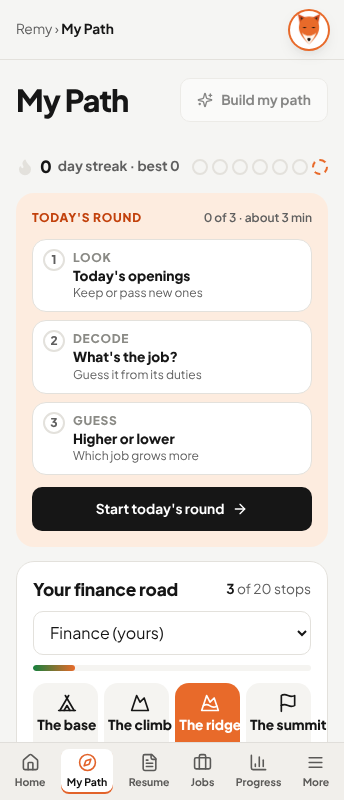
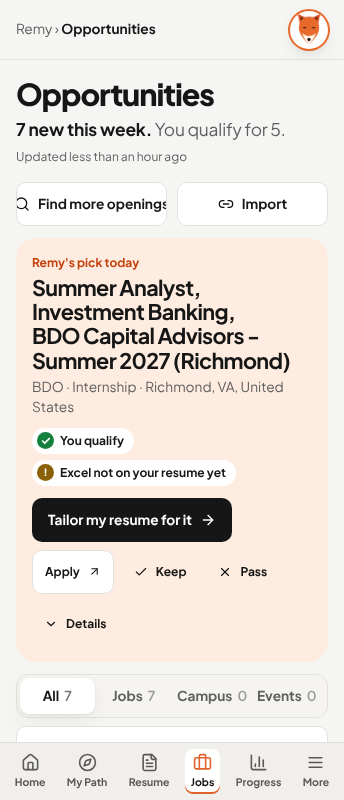
Owner Opportunities: Remy's line, Remy's pick, list with a search rail
Tabs redesign (Dilan approved the mockup Nov 22). Owners only:
- Remy's line under the title from real counts (new this week, you qualify
  for N, the soonest deadline).
- Remy's pick: the best unsaved opening as a peach card with why it fits as
  checks, Tailor, Apply, Keep/Pass and Details. It leaves the list below.
- Counts on the category filters, company initials on every card.
- A rail beside the list: Saved/Tailored/Applied/Interview tiles and the
  deadlines closing in the next 30 days. The season band closes the page.
Every existing option and filter stays. orgInitials moves to lib/jobs and
keeps short acronyms whole (BDO).

Claude-Session: https://claude.ai/code/session_0147vw1KgHCtFBEXCgx9RGLo

diff --git a/client/src/pages/Opportunities.tsx b/client/src/pages/Opportunities.tsx
@@ -1,12 +1,13 @@
 import { useEffect, useState, Fragment } from "react";
 import { dreamWithoutOpenings } from "@shared/org";
-import { ArrowDown, ArrowUp, ArrowUpRight, Bookmark, BookmarkCheck, CalendarPlus, Check, X, ChevronDown, ChevronUp, Link2, MapPin, RefreshCw, Search, Sparkles, ThumbsDown, ThumbsUp, Trash2 } from "lucide-react";
+import { ArrowDown, ArrowRight, ArrowUp, ArrowUpRight, Bookmark, BookmarkCheck, CalendarPlus, Check, X, ChevronDown, ChevronUp, Link2, MapPin, RefreshCw, Search, Sparkles, ThumbsDown, ThumbsUp, Trash2 } from "lucide-react";
 import { openingRanker, reasonLine } from "@shared/order";
 import type { Job, JobCheck, JobFit, JobInterestReason, JobRanking, Workspace } from "@shared/types";
 import { api, daysUntil, fmtDate, rid, useDraft, useOwnerView, useStore } from "../lib/store";
 import { ApplyLink } from "../components/ApplyLink";
 import { go } from "../lib/router";
-import { kindLabel, reloadJobs, sameOrg, useJobs } from "../lib/jobs";
+import { kindLabel, orgInitials, reloadJobs, sameOrg, useJobs } from "../lib/jobs";
+import { SeasonCard } from "../components/SeasonCard";
 import { shortTitle } from "@shared/org";
 import { screeningFor } from "@shared/screening";
 import { postingSkills, skillsIn } from "@shared/requirements";
@@ -19,6 +20,7 @@ const matchKind = (j: Job, k: Kind) => k === "all" || (k === "event" ? j.kind ==
 export default function Opportunities({ query }: { query: URLSearchParams }) {
   const { ws, setWs, run, toast } = useStore();
   const w = ws!;
+  const owner = useOwnerView(); // tabs redesign (Nov 22), owners first
   const { jobs, fits, interest, interestEnabled, needsProfile, refreshing, fieldEmployers } = useJobs();
   // Remy's employer list is mostly business, tech and engineering; for other fields it says so instead of blaming filters.
   // An undecided student has no field, so "few employers hire in your field" would be untrue for them.
@@ -83,6 +85,10 @@ export default function Opportunities({ query }: { query: URLSearchParams }) {
     // The student's own places first, then "Worth relocating for" (their relocation answer), then other places (only
     // when they show all locations); pinned and ranked within each group, so a group never splits (skeptic review).
     .sort(compare(pinned));
+  // Owners: Remy's pick heads the page (the best unsaved job on the list as ranked), and is left out of the list below.
+  const visible = (jobs || []).filter((j) => !w.hiddenJobIds.includes(j.id) && !fits[j.id]?.excluded);
+  const pick = owner && !q && !focus && !role ? list.find((j) => j.kind !== "event" && !w.savedJobIds.includes(j.id)) : undefined;
+  const rest = pick ? list.filter((j) => j !== pick) : list;
   return (
     <>
       {needsProfile && <div className="notice" data-testid="needs-profile">{needsProfile}</div>}
@@ -92,7 +98,7 @@ export default function Opportunities({ query }: { query: URLSearchParams }) {
         <div>
           <span className="eyebrow">Opportunities</span>
           <h1><span className="title-slogan">Openings worth your time.</span><span className="title-plain">Opportunities</span></h1>
-          <p className="hide-phone">Ranked for you: openings you're eligible for and that match your background come first.</p>
+          {owner ? <OppLine visible={visible} fits={fits} /> : <p className="hide-phone">Ranked for you: openings you're eligible for and that match your background come first.</p>}
           {(() => {
             // A quiet status line instead of a button to press: when Remy last looked, and what's new this week.
             const at = w.lastSearch?.at || w.openingsCheckedAt;
@@ -102,7 +108,7 @@ export default function Opportunities({ query }: { query: URLSearchParams }) {
             const ago = h < 1 ? "less than an hour ago" : h < 24 ? `${h}h ago` : `${d} day${d === 1 ? "" : "s"} ago`;
             const week = new Date(Date.now() - 7 * 864e5).toISOString();
             const fresh = (jobs || []).filter((j) => (j.foundAt || "") > week && !fits[j.id]?.excluded && fits[j.id]?.regionMatch !== false && !w.hiddenJobIds.includes(j.id)).length;
-            return <p className="xs muted" data-testid="openings-status">Updated {ago}{fresh ? ` · ${fresh} new this week` : ""}<span className="opp-status-extra"> · Remy checks again by itself</span></p>;
+            return <p className="xs muted" data-testid="openings-status">Updated {ago}{fresh && !owner ? ` · ${fresh} new this week` : ""}<span className="opp-status-extra"> · Remy checks again by itself</span></p>;
           })()}
         </div>
         <div className="row opp-actions">
@@ -112,10 +118,11 @@ export default function Opportunities({ query }: { query: URLSearchParams }) {
       </div>
       {finding && <div className="notice small fade-up"><Remy size={28} mood="think" /><div className="stack-sm"><span>Remy is reading live job boards from employers that fit {w.profile.targetRoles || "your interests"}{w.profile.regions ? ` in ${w.profile.regions}` : ""}.</span><WorkingSteps steps={["Picking employers that fit you", "Reading their career sites", "Keeping internships and entry-level roles", "Ranking by how well they fit"]} every={3500} /></div></div>}
       {showImport && <ImportPanel onDone={() => setShowImport(false)} />}
+      {pick && <OwnerPick j={pick} fit={fits[pick.id]} canRate={interestEnabled} />}
       <div className="row-between opp-filters">
         <div className="seg" role="group" aria-label="Category">
           {([["all", "All", "All"], ["jobs", "Jobs & internships", "Jobs"], ["campus", "Campus jobs", "Campus"], ["event", "Events", "Events"]] as [Kind, string, string][]).map(([k, l, short]) => (
-            <button key={k} aria-pressed={kind === k} onClick={() => setKind(k)} aria-label={l} data-testid={`filter-${k}`}><span className="opp-kind-long">{l}</span><span className="opp-kind-short" aria-hidden>{short}</span></button>
+            <button key={k} aria-pressed={kind === k} onClick={() => setKind(k)} aria-label={l} data-testid={`filter-${k}`}><span className="opp-kind-long">{l}</span><span className="opp-kind-short" aria-hidden>{short}</span>{owner && <em className="op-n">{visible.filter((j) => matchKind(j, k)).length}</em>}</button>
           ))}
         </div>
         <div className="row">
@@ -144,13 +151,13 @@ export default function Opportunities({ query }: { query: URLSearchParams }) {
           </div>
         </div>
       )}
-      {!jobs ? <div className="stack">{[1, 2, 3].map((i) => <div key={i} className="skeleton" style={{ height: 120 }} />)}</div> : list.length ? (
+      {(() => { const listBlock = (!jobs ? <div className="stack">{[1, 2, 3].map((i) => <div key={i} className="skeleton" style={{ height: 120 }} />)}</div> : list.length ? (
         (() => {
           // A link to one opening (?id=) shows the list down to it.
-          const count = role ? list.length : Math.max(shown, list.findIndex((j) => j.id === focus) + 1); // from My Path: all of them
+          const count = role ? rest.length : Math.max(shown, rest.findIndex((j) => j.id === focus) + 1); // from My Path: all of them
           return (
             <div className="stack">
-              {list.slice(0, count).map((j, i, shownList) => (
+              {rest.slice(0, count).map((j, i, shownList) => (
                 <Fragment key={j.id}>
                   {/* Openings outside the student's places come after theirs, under a line saying why (their relocation answer). */}
                   {group(j) > 0 && (i === 0 || group(shownList[i - 1]) !== group(j)) && (
@@ -159,19 +166,19 @@ export default function Opportunities({ query }: { query: URLSearchParams }) {
                   <JobCard j={j} fit={fits[j.id]} moved={interest[j.id]} canRate={interestEnabled} defaultOpen={focus === j.id} />
                 </Fragment>
               ))}
-              {list.length > count && (
+              {rest.length > count && (
                 <button className="btn btn-secondary" style={{ alignSelf: "center" }} onClick={() => {
                   setShown(count + 10);
                   // Keyboard users land on the first new card, not past it.
                   setTimeout(() => { const el = document.querySelectorAll<HTMLElement>(".job-card")[count]; if (el) { el.setAttribute("tabindex", "-1"); el.focus(); } }, 50);
                 }} data-testid="button-show-more-jobs">
-                  Show {Math.min(10, list.length - count)} more <span className="muted">({list.length - count} left)</span>
+                  Show {Math.min(10, rest.length - count)} more <span className="muted">({rest.length - count} left)</span>
                 </button>
               )}
             </div>
           );
         })()
-      ) : (
+      ) : rest.length === 0 && pick ? null : (
         <div className="card">
           <Empty
             title={kind === "campus" ? "No campus jobs added yet" : jobs.length ? "Nothing matches" : "No openings yet"}
@@ -182,8 +189,83 @@ export default function Opportunities({ query }: { query: URLSearchParams }) {
             action={kind !== "campus" && !jobs.length && !fewInField ? <button className="btn btn-primary" onClick={discover} disabled={finding}>{finding ? <Spinner /> : <Search size={16} />} {finding ? "Remy is checking job boards…" : "Find openings"}</button> : <button className="btn btn-secondary" onClick={() => setShowImport(true)}>Import a posting</button>}
           />
         </div>
-      )}
+      ));
+        // Owners: the list beside a rail with their search counts and what closes soon; the season band closes the page.
+        return owner ? <><div className="op-cols"><div className="stack">{listBlock}</div><OppRail jobs={jobs || []} /></div><SeasonCard w={w} /></> : listBlock;
+      })()}
     </>
+  );
+}
+
+/** Owners: Remy's line under the title, from real counts (never a made-up number). */
+function OppLine({ visible, fits }: { visible: Job[]; fits: Record<string, JobFit> }) {
+  const week = new Date(Date.now() - 7 * 864e5).toISOString();
+  const fresh = visible.filter((j) => (j.foundAt || "") > week).length;
+  const qualify = visible.filter((j) => fits[j.id]?.checked && fits[j.id]?.eligibility !== "unlikely" && !fits[j.id]?.closed).length;
+  const soon = visible.map((j) => ({ j, d: daysUntil(j.deadline) })).filter((x) => x.d !== null && x.d >= 0 && x.d <= 14).sort((a, b) => a.d! - b.d!)[0];
+  if (!visible.length) return <p className="op-say">Remy is looking for openings that fit you.</p>;
+  return (
+    <p className="op-say" data-testid="opp-line">
+      <b>{fresh ? `${fresh} new this week.` : `${visible.length} opening${visible.length === 1 ? "" : "s"} ranked for you.`}</b>
+      {qualify ? ` You qualify for ${qualify}.` : ""}
+      {soon ? ` ${soon.j.company} closes ${soon.d === 0 ? "today" : soon.d === 1 ? "tomorrow" : `in ${soon.d} days`}.` : ""}
+    </p>
+  );
+}
+
+/** Owners: the one opening Remy would look at first, with why it fits as checks and every action the card has. */
+function OwnerPick({ j, fit, canRate }: { j: Job; fit?: JobFit; canRate: boolean }) {
+  const { ws, save } = useStore();
+  const w = ws!;
+  const saved = w.savedJobIds.includes(j.id), hidden = w.hiddenJobIds.includes(j.id);
+  const d = daysUntil(j.deadline);
+  return (
+    <section className="op-pick" data-testid="opp-pick">
+      <div className="op-pick-main">
+        <span className="op-kick">Remy's pick today</span>
+        <h2 title={j.title}>{shortTitle(j.title, j.company)}</h2>
+        <span className="small muted">{j.company} · {kindLabel[j.kind]}{j.location ? ` · ${j.location}` : ""}</span>
+        <div className="op-fits">
+          {fit?.checked && fit.eligibility !== "unlikely" && <span className="op-fit"><i><Check size={10} strokeWidth={4} /></i>You qualify</span>}
+          {(fit?.matched || []).slice(0, 3).map((k) => <span key={k} className="op-fit"><i><Check size={10} strokeWidth={4} /></i>{k} on your resume</span>)}
+          {d !== null && d >= 0 && d <= 14 && <span className="op-fit warn"><i>!</i>Due {fmtDate(j.deadline)}</span>}
+          {!fit?.matched?.length && fit?.gaps?.[0] && fit.gaps[0].length < 30 && <span className="op-fit warn"><i>!</i>{fit.gaps[0]} not on your resume yet</span>}
+        </div>
+        <div className="row op-pick-acts">
+          <button className="btn btn-primary" onClick={() => go(`/resume?tab=tailor&job=${j.id}&go=1`)} data-testid="button-pick-tailor">Tailor my resume for it <ArrowRight size={16} /></button>
+          <ApplyLink j={j} />
+          {canRate ? <KeepPass j={j} saved={saved} hidden={hidden} /> : <button className="btn btn-ghost btn-sm" onClick={() => save("savedJobIds", saved ? w.savedJobIds.filter((x) => x !== j.id) : [...w.savedJobIds, j.id])} data-testid="button-pick-save">{saved ? <BookmarkCheck size={14} /> : <Bookmark size={14} />} {saved ? "Saved" : "Save"}</button>}
+          <button className="btn btn-ghost btn-sm" onClick={() => go(`/opportunities?kind=all&id=${j.id}`)} data-testid="button-pick-details"><ChevronDown size={14} /> Details</button>
+        </div>
+      </div>
+      <span className="op-pick-mono" aria-hidden="true">{orgInitials(j.company)}</span>
+    </section>
+  );
+}
+
+/** Owners: where their search stands and the deadlines coming up, beside the list. */
+function OppRail({ jobs }: { jobs: Job[] }) {
+  const { ws } = useStore();
+  const w = ws!;
+  const sent = w.tracker.filter((t) => !["Saved", "Withdrawn"].includes(t.status));
+  const tiles: [string, number, string][] = [["Saved", w.savedJobIds.length, "a"], ["Tailored", w.applications.length, "b"], ["Applied", sent.length, "c"], ["Interview", sent.filter((t) => t.status === "Interview" || t.status === "Offer").length, "d"]];
+  const soon = jobs.filter((j) => !w.hiddenJobIds.includes(j.id)).map((j) => ({ j, d: daysUntil(j.deadline) }))
+    .filter((x) => x.d !== null && x.d >= 0 && x.d <= 30)
+    .sort((a, b) => Number(w.savedJobIds.includes(b.j.id)) - Number(w.savedJobIds.includes(a.j.id)) || a.d! - b.d!).slice(0, 3);
+  return (
+    <aside className="op-rail" data-testid="opp-rail">
+      <div className="op-card">
+        <div className="op-ch"><h3>Your search</h3><button className="op-link" onClick={() => go("/progress")} data-testid="button-rail-progress">Progress →</button></div>
+        <div className="op-tiles">{tiles.map(([l, n, c]) => <div key={l} className={"op-tile " + c}><b>{n}</b><span>{l}</span></div>)}</div>
+      </div>
+      <div className="op-card">
+        <div className="op-ch"><h3>Closing soon</h3><button className="op-link" onClick={() => go("/calendar")} data-testid="button-rail-calendar">Calendar →</button></div>
+        {soon.length ? <ul className="op-dl">{soon.map(({ j }) => (
+          <li key={j.id}><span className="op-date"><small>{new Date(j.deadline.slice(0, 10) + "T12:00").toLocaleDateString("en-US", { month: "short" })}</small><b>{new Date(j.deadline.slice(0, 10) + "T12:00").getDate()}</b></span>
+            <button onClick={() => go(`/opportunities?kind=all&id=${j.id}`)}><strong>{shortTitle(j.title, j.company)}</strong><span>{j.company}{w.savedJobIds.includes(j.id) ? " · saved" : ""}</span></button></li>
+        ))}</ul> : <p className="small muted">No deadlines in the next 30 days. Remy adds them here as openings post dates.</p>}
+      </div>
+    </aside>
   );
 }
 
@@ -270,6 +352,7 @@ function JobCard({ j, fit, moved, canRate, defaultOpen }: { j: Job; fit?: JobFit
   return (
     <article id={"job-" + j.id} className={"card card-pad stack-sm job-card" + (open ? " open" : "")} style={defaultOpen ? { borderColor: "var(--plum)" } : undefined} data-testid="card-job">
       <div className="row-between job-top" style={{ alignItems: "flex-start" }}>
+        {keepPass && <span className="job-mono" aria-hidden="true">{orgInitials(j.company)}</span>}
         <div className="stack-sm" style={{ minWidth: 0, flex: 1 }}>
           <div className="row"><span className="xs muted">{j.company} · {kindLabel[j.kind]}</span><StatusChip label={j.label} />{eligChip(fit)}</div>
           <h3 title={shortTitle(j.title, j.company) !== j.title ? j.title : undefined}>{shortTitle(j.title, j.company)}</h3>

diff --git a/client/src/index.css b/client/src/index.css
@@ -1470,6 +1470,44 @@ ul[class] > li, ol[class] > li { max-width: none; }
 .redesign-2 .hero2-bubble p { max-width: min(60ch, calc(100% - 110px)); }
 .redesign-2 .hero2-bubble { overflow: hidden; isolation: isolate; animation: soul-in .45s ease both; }
 .job-mono { width: 36px; height: 36px; flex: none; align-self: flex-start; margin-top: 2px; border-radius: 10px; display: grid; place-items: center; font-weight: 800; font-size: 12.5px; letter-spacing: .02em; background: var(--fox-soft); color: var(--fox-deep); }
+/* Owner Opportunities (tabs redesign, Nov 22): Remy's line, a peach "Remy's pick", list + rail, filter counts. */
+.op-say { font-size: var(--text-lg); color: var(--muted-text); margin: 6px 0 0; letter-spacing: -.01em; }
+.op-say b { color: var(--ink); font-weight: 700; }
+.op-n { font-style: normal; font-weight: 600; opacity: .6; margin-left: 5px; }
+.op-pick { display: grid; grid-template-columns: minmax(0, 1fr) auto; gap: 18px; align-items: center; background: var(--fox-soft); border-radius: 20px; padding: 18px 20px; }
+.op-pick-main { display: grid; gap: 2px; min-width: 0; }
+.op-kick { font-size: var(--text-xs); font-weight: 700; color: var(--fox-deep); }
+.op-pick h2 { font-size: clamp(1.35rem, 1.1rem + .8vw, 1.8rem); letter-spacing: -.03em; line-height: 1.12; margin: 2px 0; }
+.op-fits { display: flex; gap: 6px; flex-wrap: wrap; margin: 8px 0 10px; }
+.op-fit { display: inline-flex; gap: 6px; align-items: center; font-size: var(--text-xs); font-weight: 700; background: var(--surface); border-radius: 99px; padding: 4px 10px 4px 5px; }
+.op-fit i { width: 17px; height: 17px; border-radius: 50%; background: var(--sage); color: var(--white); display: grid; place-items: center; font-style: normal; font-size: 10px; font-weight: 800; }
+.op-fit.warn i { background: var(--amber); }
+.op-pick-acts { gap: 8px; flex-wrap: wrap; }
+.op-pick-mono { width: 76px; height: 76px; border-radius: 20px; display: grid; place-items: center; font-weight: 800; font-size: 1.4rem; background: var(--surface); color: var(--fox-deep); box-shadow: var(--shadow); transform: rotate(-4deg); }
+.op-cols { display: grid; grid-template-columns: minmax(0, 1fr) 320px; gap: 16px; align-items: start; }
+.op-rail { display: flex; flex-direction: column; gap: 16px; position: sticky; top: 12px; }
+.op-card { background: var(--surface); border: 1px solid var(--line); border-radius: 20px; padding: 16px 18px; }
+.op-ch { display: flex; justify-content: space-between; align-items: center; gap: 10px; margin-bottom: 10px; }
+.op-ch h3 { font-size: var(--text-lg); font-weight: 800; letter-spacing: -.01em; margin: 0; }
+.op-link { font-size: var(--text-xs); font-weight: 700; color: var(--ink); white-space: nowrap; }
+.op-tiles { display: grid; grid-template-columns: repeat(2, minmax(0, 1fr)); gap: 8px; }
+.op-tile { border-radius: 14px; padding: 10px 12px; background: var(--surface-2); }
+.op-tile b { display: block; font-size: 1.5rem; font-weight: 800; letter-spacing: -.03em; line-height: 1.1; }
+.op-tile span { font-size: var(--text-xs); font-weight: 650; color: var(--muted-text); }
+.op-tile.a { background: var(--fox-soft); } .op-tile.a b { color: var(--fox-deep); }
+.op-tile.b { background: var(--blue-bg); } .op-tile.b b { color: var(--blue); }
+.op-tile.c { background: var(--sage-bg); } .op-tile.c b { color: var(--sage); }
+.op-tile.d { background: var(--amber-bg); } .op-tile.d b { color: var(--amber); }
+.op-dl { list-style: none; margin: 0; padding: 0; display: grid; gap: 10px; }
+.op-dl li { display: grid; grid-template-columns: 46px minmax(0, 1fr); gap: 10px; align-items: center; }
+.op-dl button { text-align: left; padding: 0; display: grid; min-width: 0; }
+.op-dl strong { font-size: var(--text-sm); font-weight: 700; line-height: 1.3; }
+.op-dl button span { font-size: var(--text-xs); color: var(--muted-text); }
+.op-date { border-radius: 12px; border: 1px solid var(--line); text-align: center; padding: 4px 0; line-height: 1.1; }
+.op-date small { display: block; font-size: var(--text-xs); font-weight: 800; text-transform: uppercase; color: var(--fox-deep); }
+.op-date b { font-size: 1.15rem; font-weight: 800; }
+@media (max-width: 1100px) { .op-cols { grid-template-columns: minmax(0, 1fr); } .op-rail { position: static; } }
+@media (max-width: 640px) { .op-pick { grid-template-columns: minmax(0, 1fr); padding: 16px; } .op-pick-mono { display: none; } }
 @media (max-width: 640px) { .redesign-2 .hero2-bubble p { max-width: none; } }
 /* Owner Home, reference pass (Nov 22): streak card by the greeting, getting started inside the card, job cards, season band */
 .streak-peek { display: flex; align-items: center; gap: 12px; padding: 10px 12px 10px 14px; border-radius: 16px; border: 1px solid var(--line); background: var(--surface); animation: soul-in .45s ease both; }

diff --git a/client/src/pages/Home.tsx b/client/src/pages/Home.tsx
@@ -9,7 +9,7 @@ import { api, daysUntil, fmtDate, rid, useOwnerView, useStore } from "../lib/sto
 import { CAREER_QUEST_ON } from "@shared/game";
 import { useCompleting } from "../lib/completing";
 import { go } from "../lib/router";
-import { kindLabel, useJobs } from "../lib/jobs";
+import { kindLabel, useJobs, orgInitials } from "../lib/jobs";
 import { Remy, StatusChip } from "../components/common";
 import { firstName } from "@shared/names";
 import { gettingStarted } from "@shared/progress";
@@ -280,7 +280,7 @@ function JobRow({ j, why, open, onToggle, mono, matched, top }: { j: Job; why?: 
   const due = j.deadline && <span className={"chip " + (d !== null && d <= 7 ? "chip-setup" : "chip-plain")}>{d !== null && d >= 0 ? (d === 0 ? "Due today" : `${d}d left`) : fmtDate(j.deadline)}</span>;
   return (
     <div className={"item" + (mono ? " job-card" : "") + (top ? " top" : "")}>
-      {mono && <span className="job-mono" aria-hidden="true">{j.company.replace(/[^A-Za-z ]/g, "").split(/\s+/).filter(Boolean).slice(0, 2).map((x) => x[0]).join("").toUpperCase() || "•"}</span>}
+      {mono && <span className="job-mono" aria-hidden="true">{orgInitials(j.company)}</span>}
       <div className="item-main">
         {mono ? <span className="xs muted">{j.company} · {kindLabel[j.kind]}</span> : <div className="row"><span className="xs muted">{j.company} · {kindLabel[j.kind]}</span><StatusChip label={j.label} /></div>}
         <button style={{ textAlign: "left", padding: 0, fontWeight: 700 }} onClick={onToggle}>{j.title}</button>

diff --git a/client/src/components/SeasonCard.tsx b/client/src/components/SeasonCard.tsx
@@ -14,7 +14,7 @@ export function SeasonCard({ w }: { w: Workspace }) {
   const s = seasonFor(w.profile.targetRoles) || seasonFor([w.profile.major, w.profile.interests].join(" "));
   if (!s) return null;
   if (owner) return (
-    // Owners: a dark band with the countdown up front.
+    // Owners: a plain band with the countdown up front (no dark bands, Dilan Nov 22).
     <section className="season-band" data-testid="season-card">
       <span className="season-cd"><b>{s.open ? "Now" : `~${s.monthsUntil}`}</b>{s.open ? "open" : s.monthsUntil === 1 ? "month" : "months"}</span>
       <span className="grow"><b>{s.open ? `${s.label} internship season is on now` : `${s.label} internship season opens in ${s.opens}`}</b><small>Usually {s.window}. {s.note} <a href={SEASON_SOURCE} target="_blank" rel="noreferrer">Source</a></small></span>

diff --git a/client/src/lib/jobs.ts b/client/src/lib/jobs.ts
@@ -57,4 +57,10 @@ export const kindLabel: Record<Job["kind"], string> = {
   job: "Job", internship: "Internship", program: "Early-career program", campus: "Campus job", event: "Event",
 };
 export const isEvent = (j: Job) => j.kind === "event";
+/** Company initials for the owner job tiles ("Bread Financial" → "BF", "BDO" stays "BDO", "Google" → "G"). */
+export const orgInitials = (company: string) => {
+  const words = company.replace(/[^A-Za-z ]/g, "").split(/\s+/).filter(Boolean);
+  if (words.length === 1) return /^[A-Z]{2,4}$/.test(words[0]) ? words[0] : words[0][0].toUpperCase();
+  return words.slice(0, 2).map((x) => x[0]).join("").toUpperCase() || "•";
+};
 export { sameOrg } from "@shared/org";
